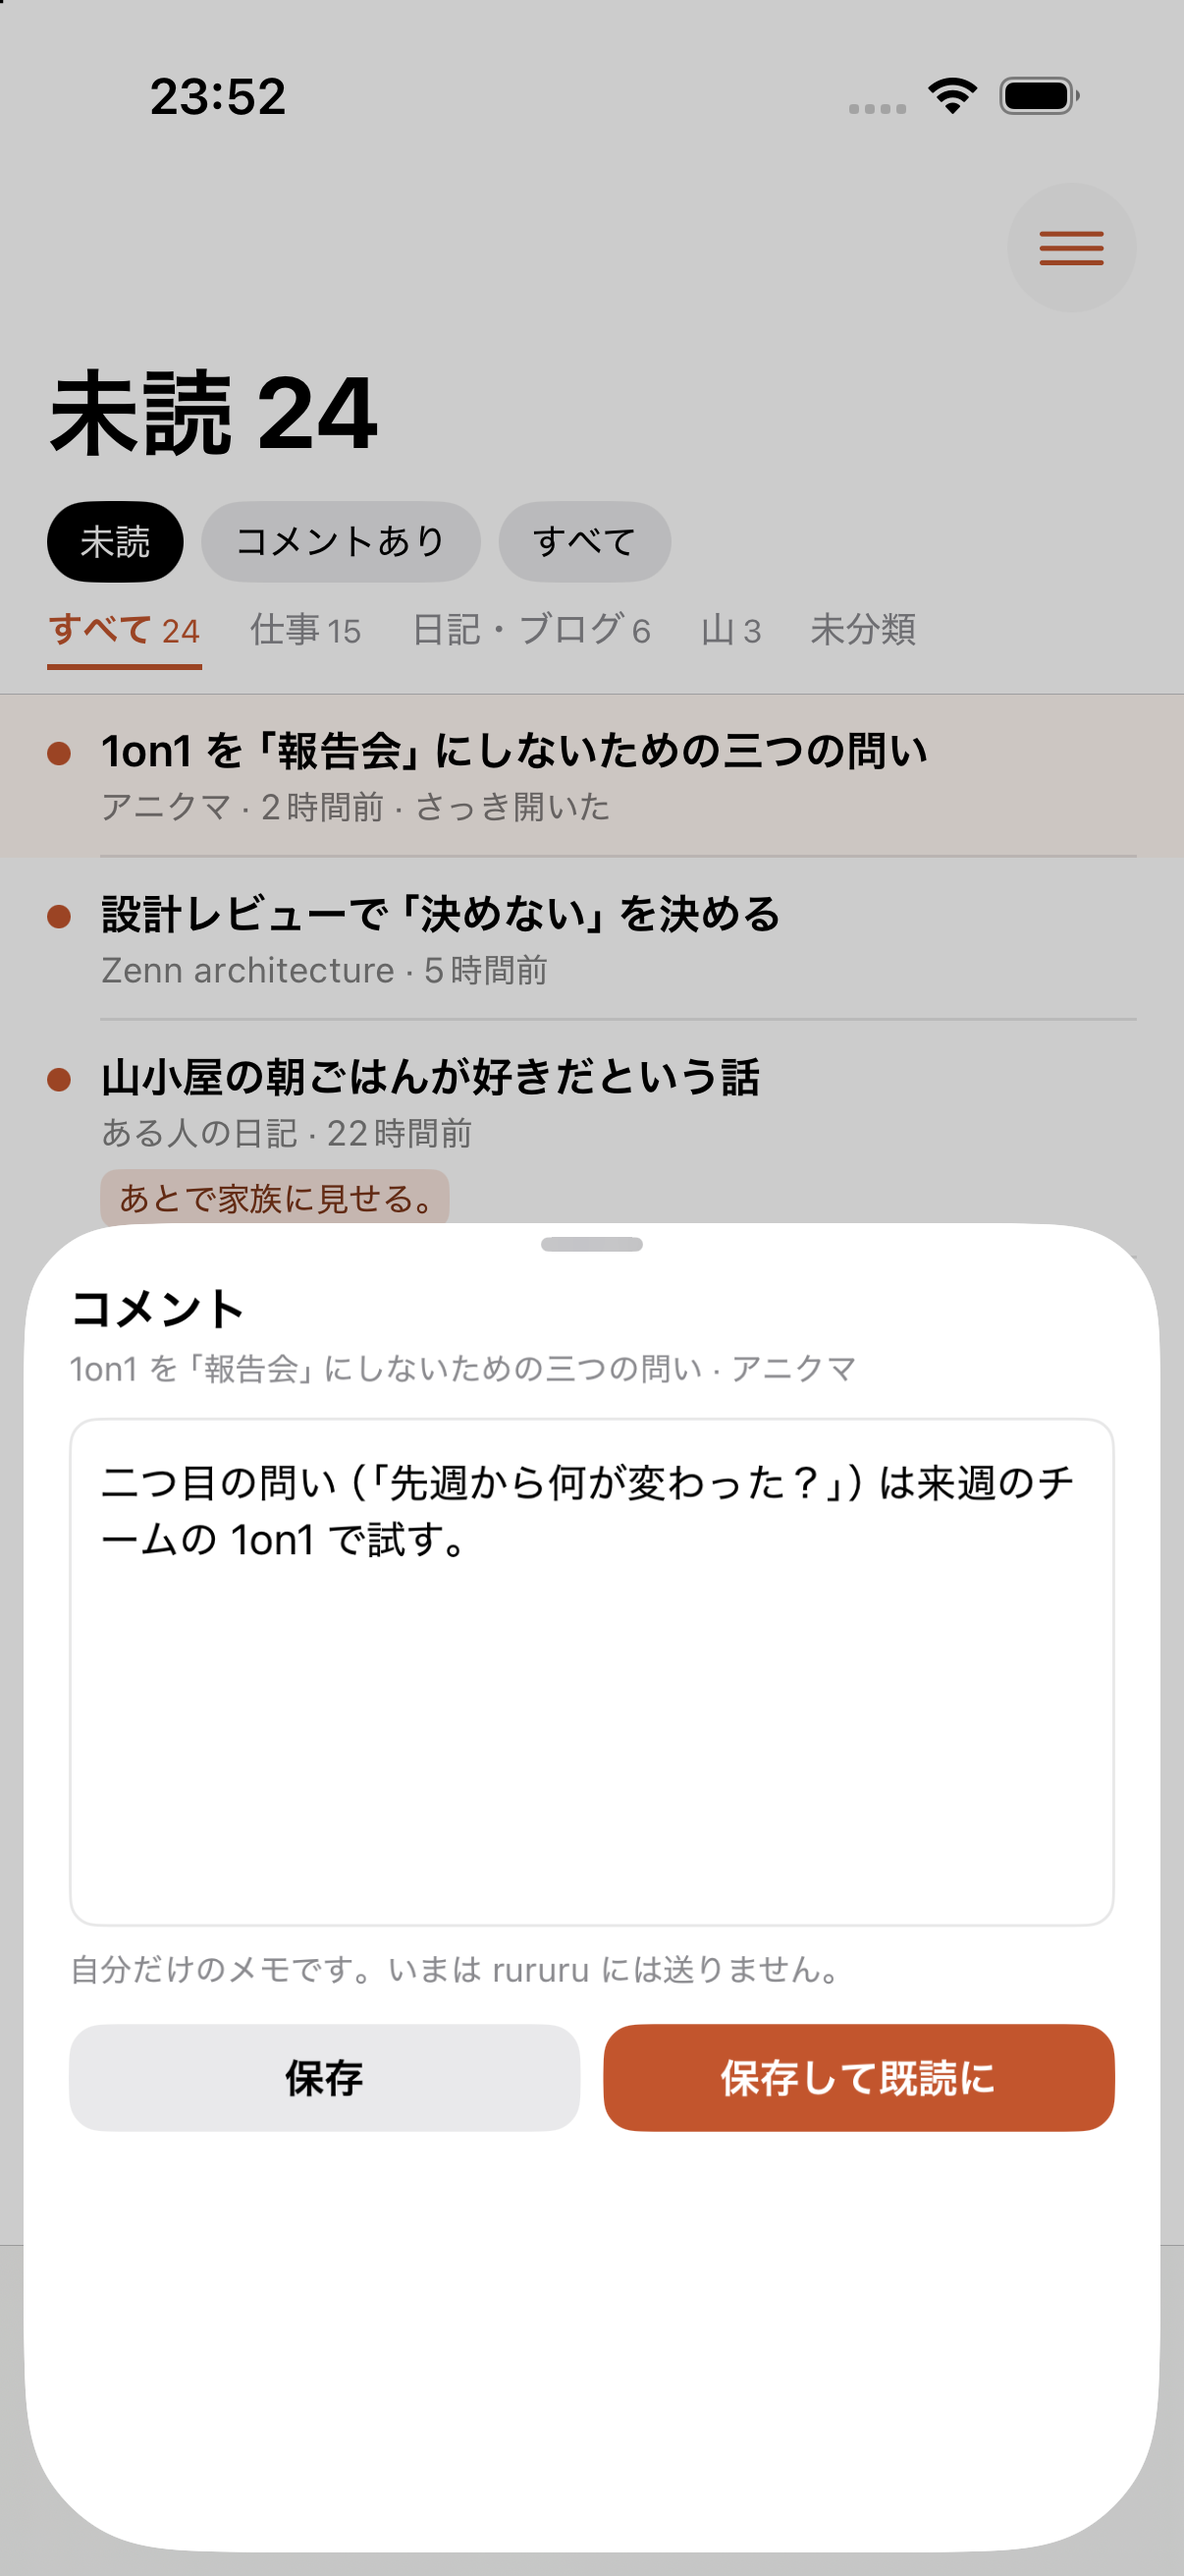
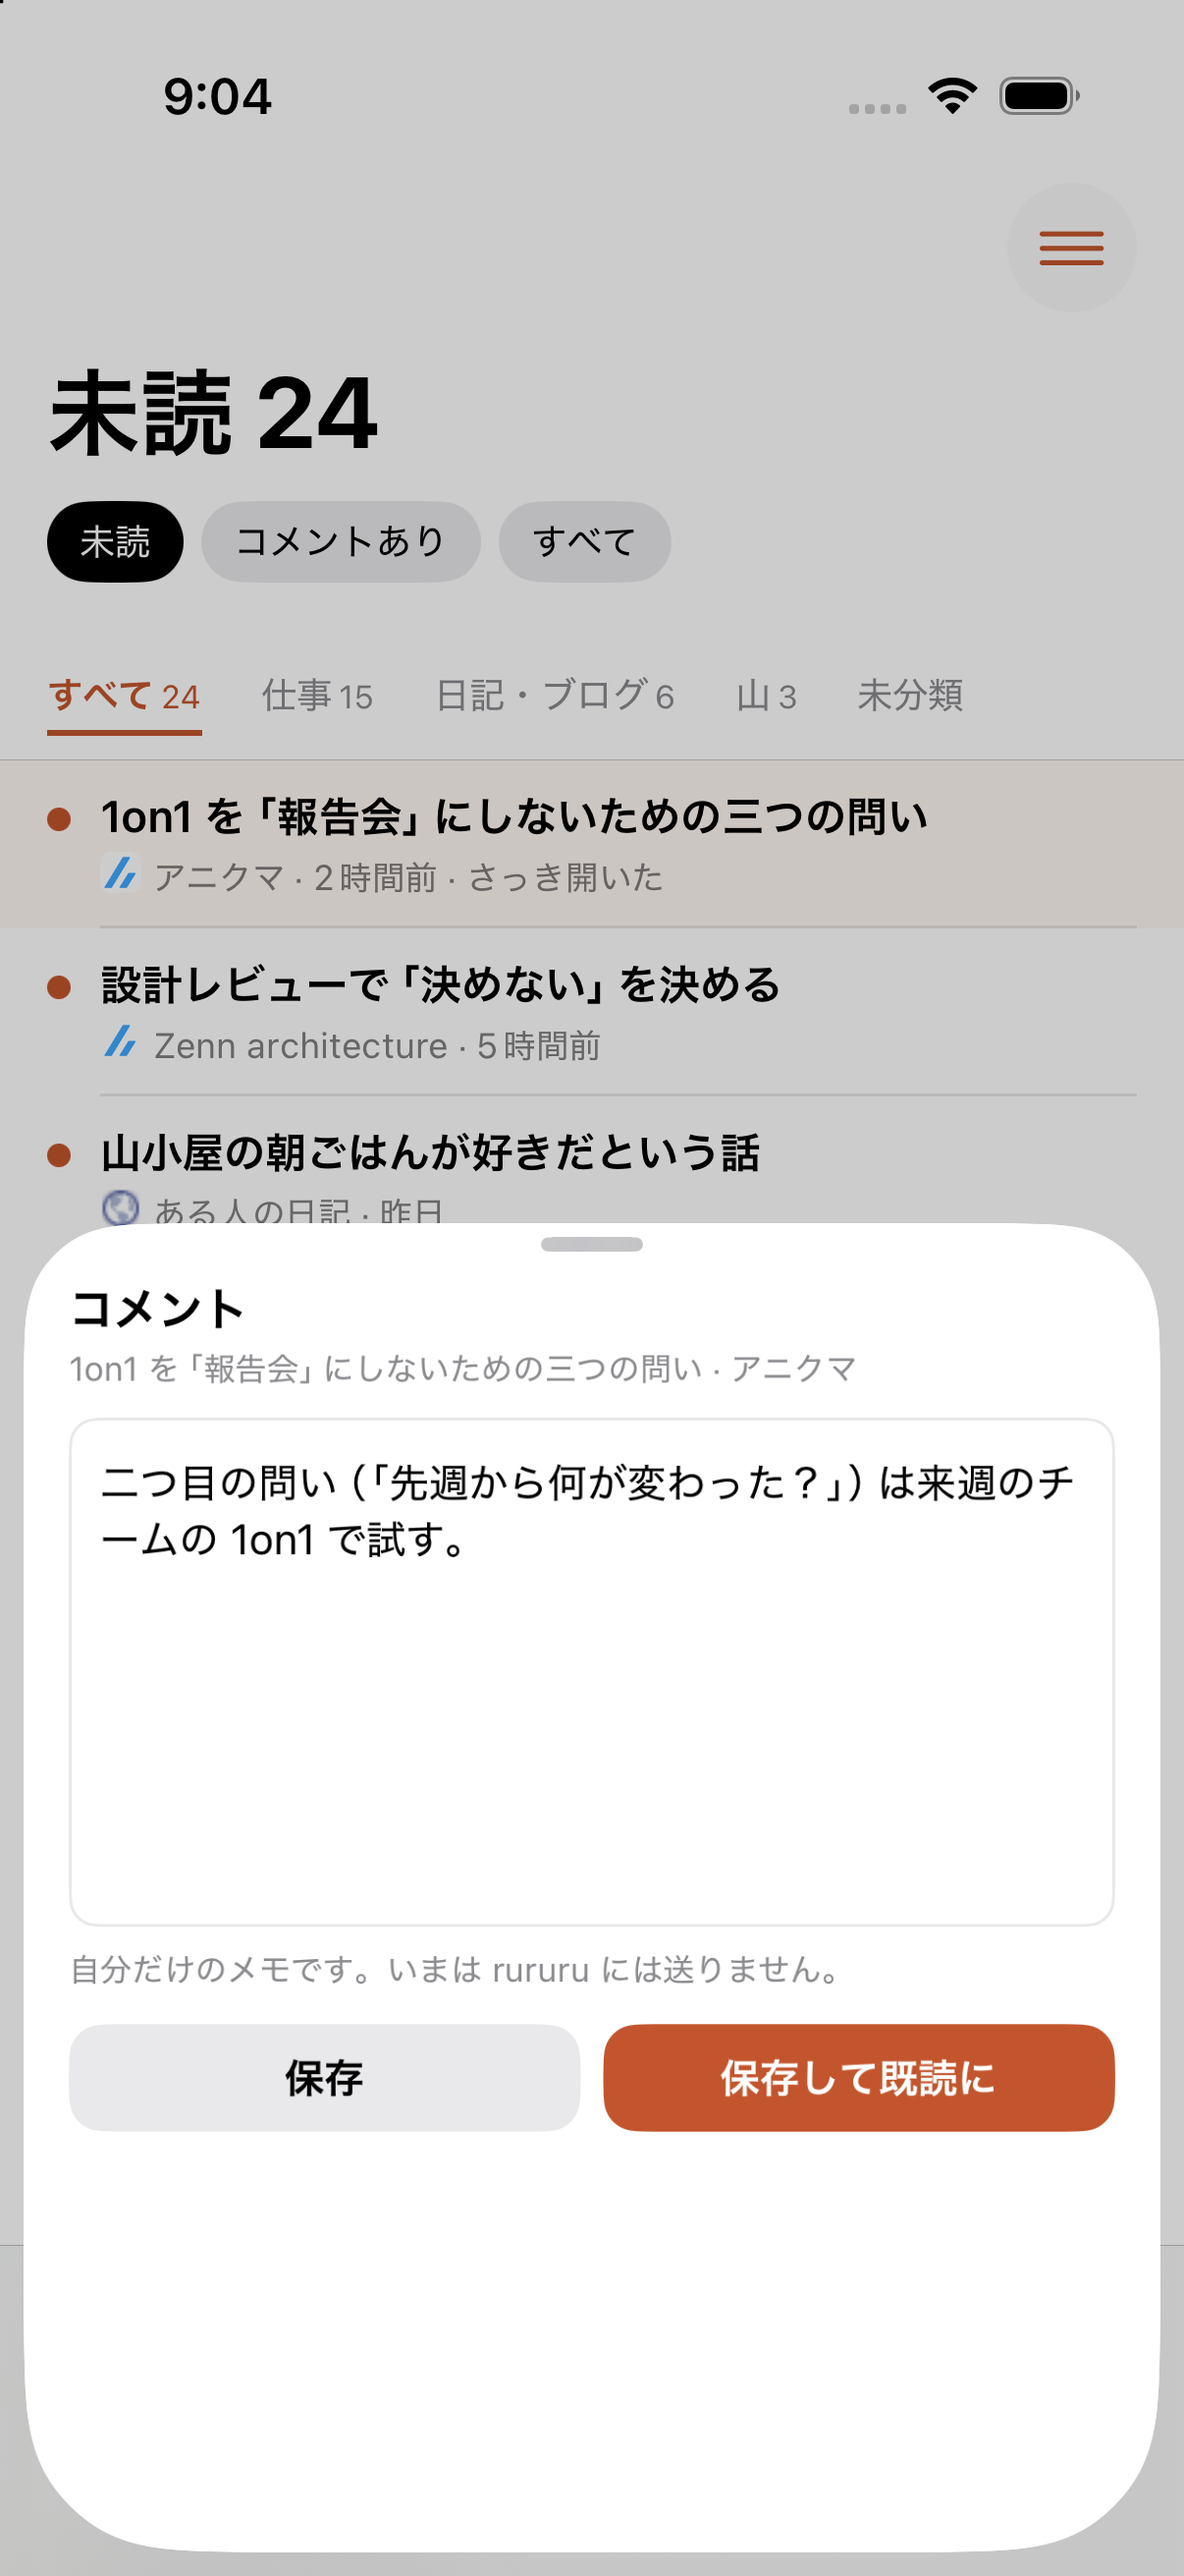
一覧とサイト画面にファビコンを表示する

Changed region(s): [[0.0307, 0.2162, 0.8284, 0.4943], [0.1227, 0.0309, 0.2454, 0.0618]]

diff --git a/ios/App/ItemListView.swift b/ios/App/ItemListView.swift
@@ -68,10 +68,17 @@ struct ItemListView: View {
 
     // MARK: - 行
 
+    /// feedId → favicon URL（毎行 O(n) 探索しないよう先に辞書化）
+    private var favicons: [Int: URL] {
+        model.feeds.reduce(into: [:]) { dict, f in dict[f.id] = f.faviconURL }
+    }
+
+    @ViewBuilder
     private var list: some View {
+        let favicons = self.favicons
         List {
             ForEach(model.items) { item in
-                ItemRow(item: item, state: model.state, opened: model.lastOpened?.id == item.id)
+                ItemRow(item: item, state: model.state, opened: model.lastOpened?.id == item.id, favicon: favicons[item.feedId])
                     .contentShape(Rectangle())
                     .onTapGesture { model.open(item) }
                     .listRowInsets(EdgeInsets(top: 10, leading: 16, bottom: 10, trailing: 16))
@@ -181,6 +188,8 @@ struct ItemRow: View {
     let item: Item
     let state: ItemState
     let opened: Bool
+    /// サイトのファビコン（model.feeds から feedId で引いたもの。取れないサイトは nil）
+    let favicon: URL?
 
     var body: some View {
         HStack(alignment: .top, spacing: 10) {
@@ -194,7 +203,11 @@ struct ItemRow: View {
                     .font(.subheadline.weight(item.isRead ? .regular : .semibold))
                     .foregroundStyle(item.isRead ? Color.secondary : Color.primary)
                     .lineSpacing(2)
-                Text(meta).font(.caption).foregroundStyle(.secondary).lineLimit(1)
+                HStack(alignment: .firstTextBaseline, spacing: 4) {
+                    FaviconView(url: favicon, fallback: item.feedTitle.first.map(String.init) ?? "・", size: 14)
+                        .alignmentGuide(.firstTextBaseline) { d in d[.bottom] - 1 }
+                    Text(meta).font(.caption).foregroundStyle(.secondary).lineLimit(1)
+                }
                 if let c = item.comment {
                     Label {
                         Text(c)

diff --git a/ios/App/FaviconView.swift b/ios/App/FaviconView.swift
@@ -1,0 +1,53 @@
+import SwiftUI
+import UIKit
+
+/// ファビコンのメモリキャッシュ（スクロールで同じ URL を何度も読み直さない）
+@MainActor
+final class FaviconCache {
+    static let shared = FaviconCache()
+    private let cache = NSCache<NSURL, UIImage>()
+
+    func image(for url: URL) -> UIImage? { cache.object(forKey: url as NSURL) }
+    func set(_ image: UIImage, for url: URL) { cache.setObject(image, forKey: url as NSURL) }
+}
+
+/// サイトのファビコン。取得中・失敗時は頭文字の角丸四角を出す
+struct FaviconView: View {
+    let url: URL?
+    let fallback: String
+    var size: CGFloat = 28
+
+    @State private var image: UIImage?
+
+    var body: some View {
+        Group {
+            if let image {
+                Image(uiImage: image)
+                    .resizable()
+                    .scaledToFill()
+            } else {
+                Text(fallback)
+                    .font(.system(size: size * 0.45, weight: .bold))
+                    .foregroundStyle(.secondary)
+            }
+        }
+        .frame(width: size, height: size)
+        .background(image == nil ? Theme.chip : Color.clear)
+        .clipShape(RoundedRectangle(cornerRadius: size * 0.25))
+        .task(id: url) { await load() }
+    }
+
+    private func load() async {
+        image = nil
+        guard let url else { return }
+        if let cached = FaviconCache.shared.image(for: url) {
+            image = cached
+            return
+        }
+        guard let (data, _) = try? await URLSession.shared.data(from: url),
+              let loaded = UIImage(data: data) else { return }
+        FaviconCache.shared.set(loaded, for: url)
+        // task(id:) がキャンセルされていれば（URL が変わった等）反映しない
+        if !Task.isCancelled { image = loaded }
+    }
+}

diff --git a/ios/App/SitesView.swift b/ios/App/SitesView.swift
@@ -196,11 +196,7 @@ struct FeedRow: View {
 
     var body: some View {
         HStack(spacing: 10) {
-            Text(feed.initial)
-                .font(.caption.weight(.bold))
-                .foregroundStyle(.secondary)
-                .frame(width: 28, height: 28)
-                .background(Theme.chip, in: RoundedRectangle(cornerRadius: 7))
+            FaviconView(url: feed.faviconURL, fallback: feed.initial, size: 28)
             VStack(alignment: .leading, spacing: 1) {
                 Text(feed.title).font(.subheadline).lineLimit(1)
                 Text(feed.displayURL).font(.caption2).foregroundStyle(.secondary).lineLimit(1)

diff --git a/ios/Shared/Models.swift b/ios/Shared/Models.swift
@@ -108,6 +108,12 @@ struct Feed: Codable, Identifiable, Hashable, Sendable {
     var initial: String {
         String(title.trimmingCharacters(in: .whitespaces).first ?? "・").uppercased()
     }
+
+    /// ファビコンの URL（Google の s2/favicons を経由。ホストが取れなければ nil）
+    var faviconURL: URL? {
+        guard let host = URL(string: siteUrl ?? feedUrl)?.host else { return nil }
+        return URL(string: "https://www.google.com/s2/favicons?domain=\(host)&sz=64")
+    }
 }
 
 struct FeedList: Codable, Sendable {
